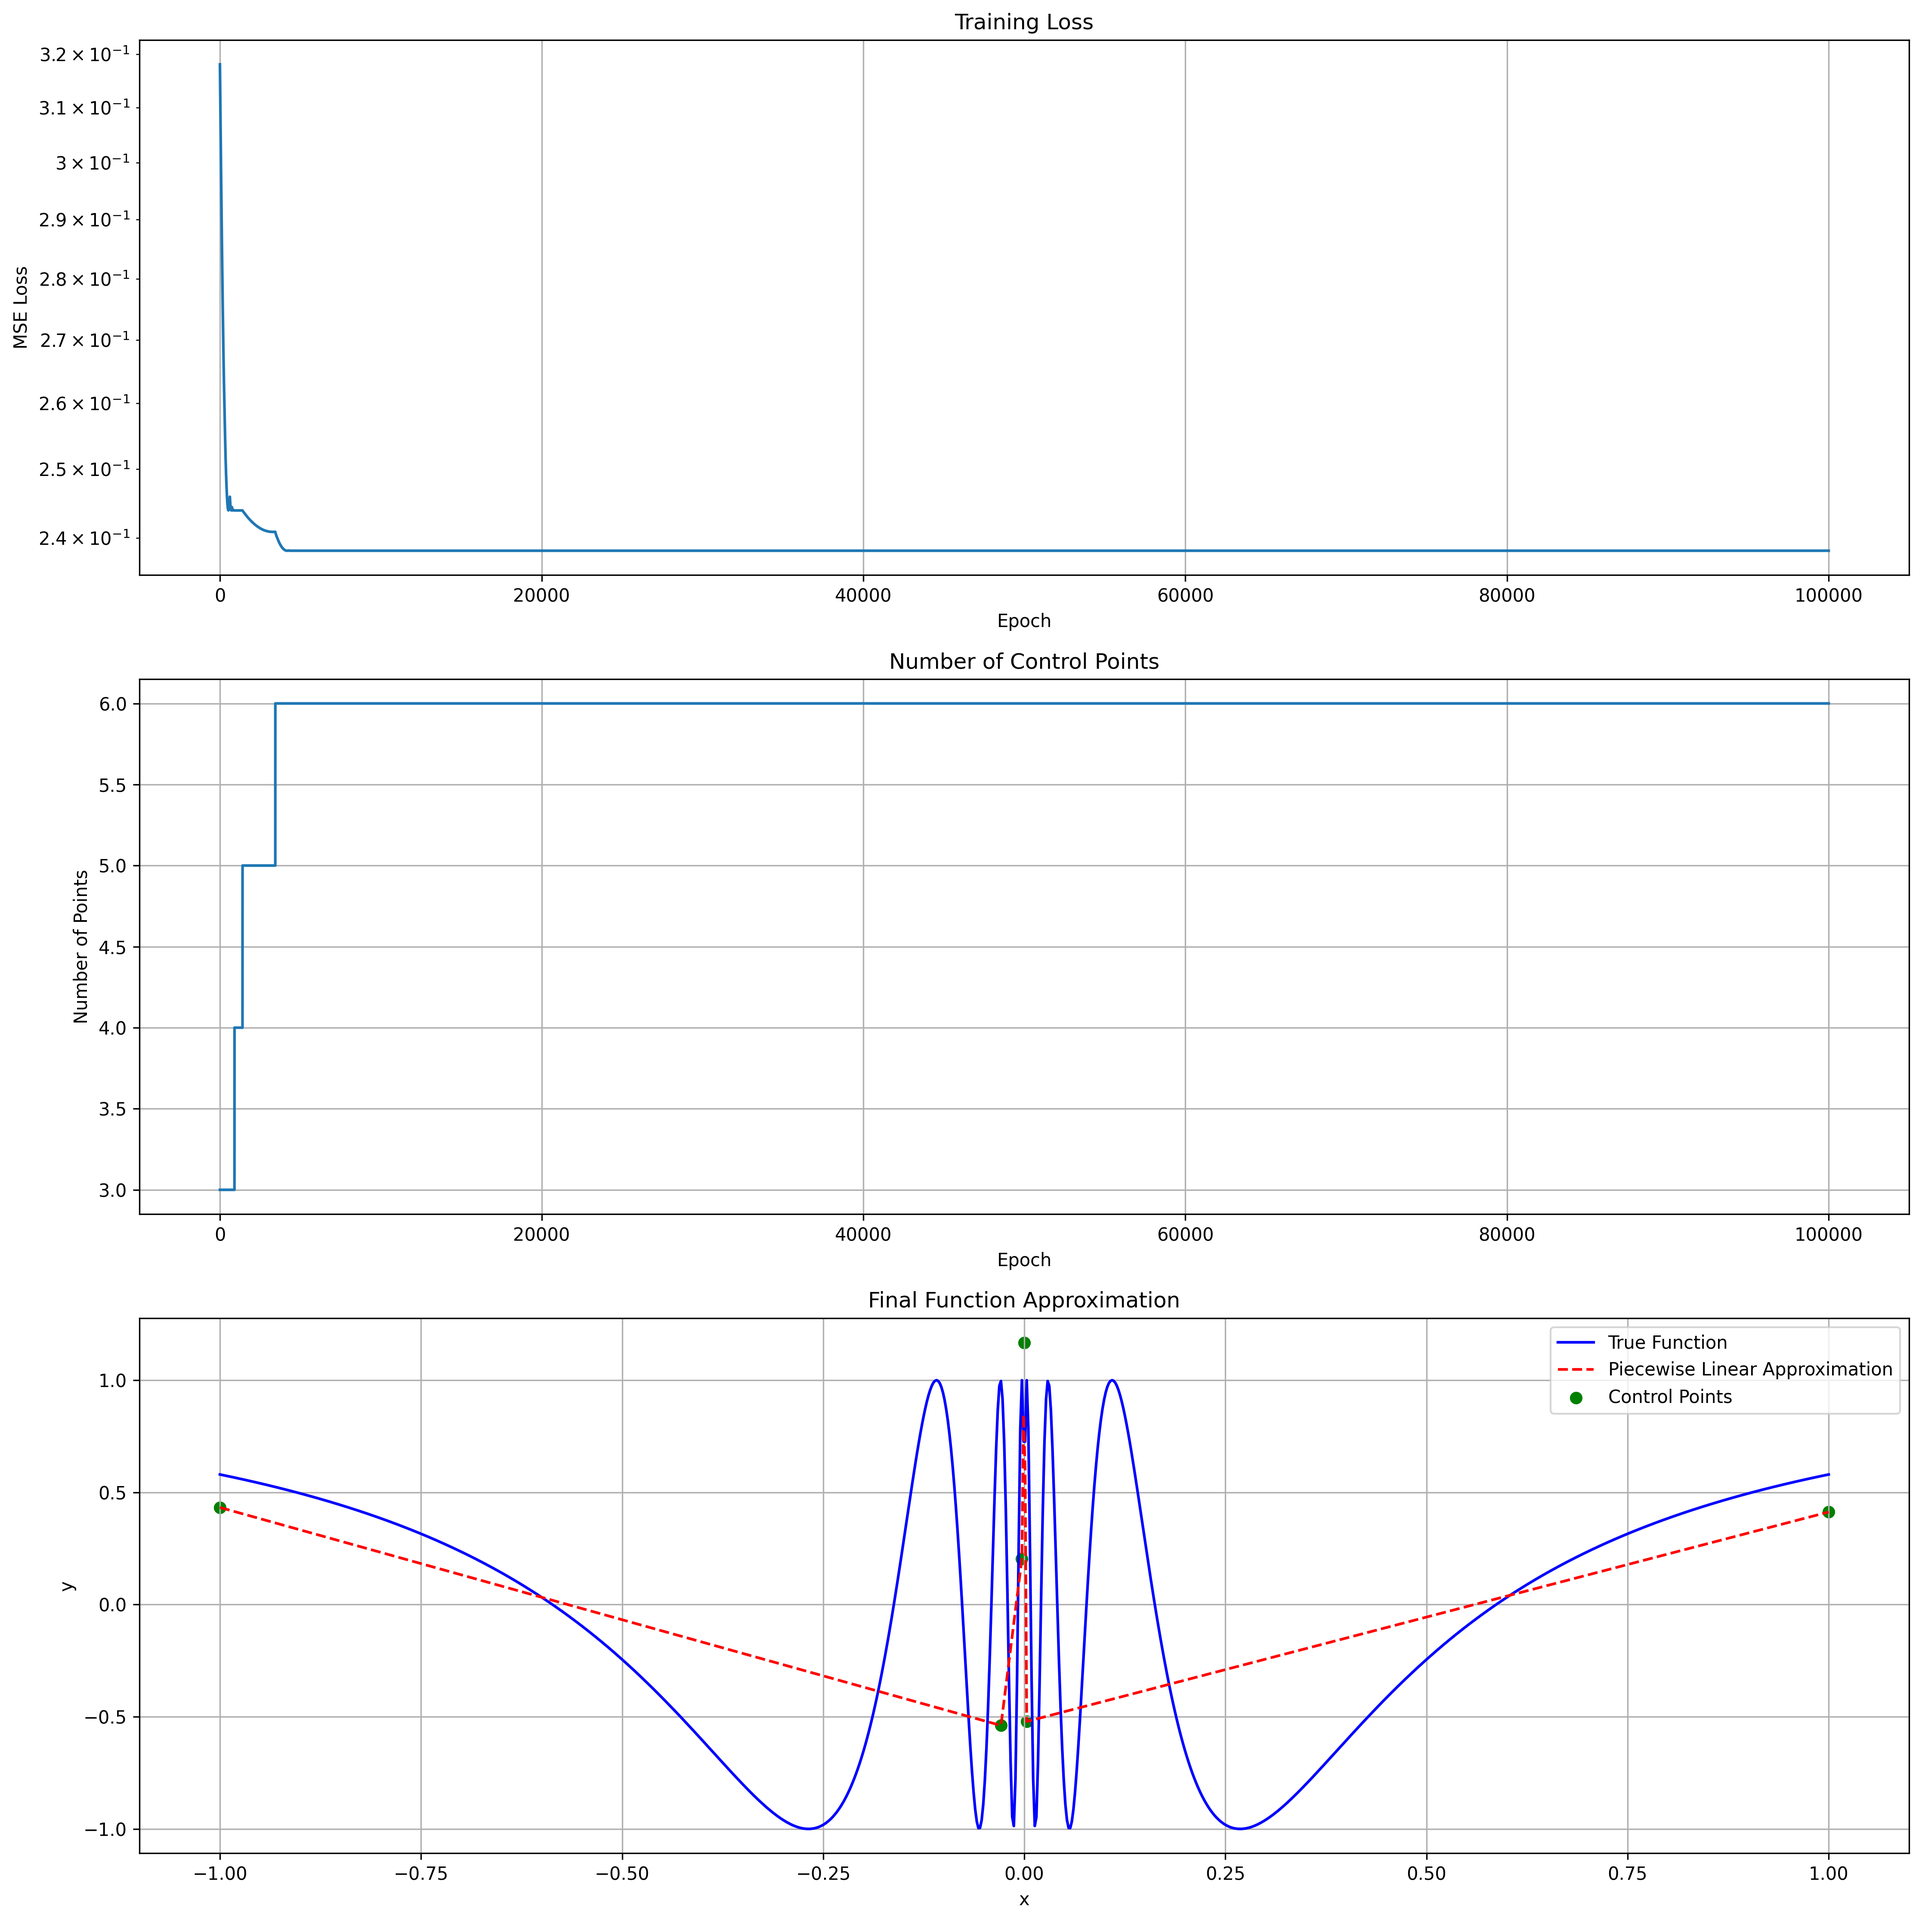
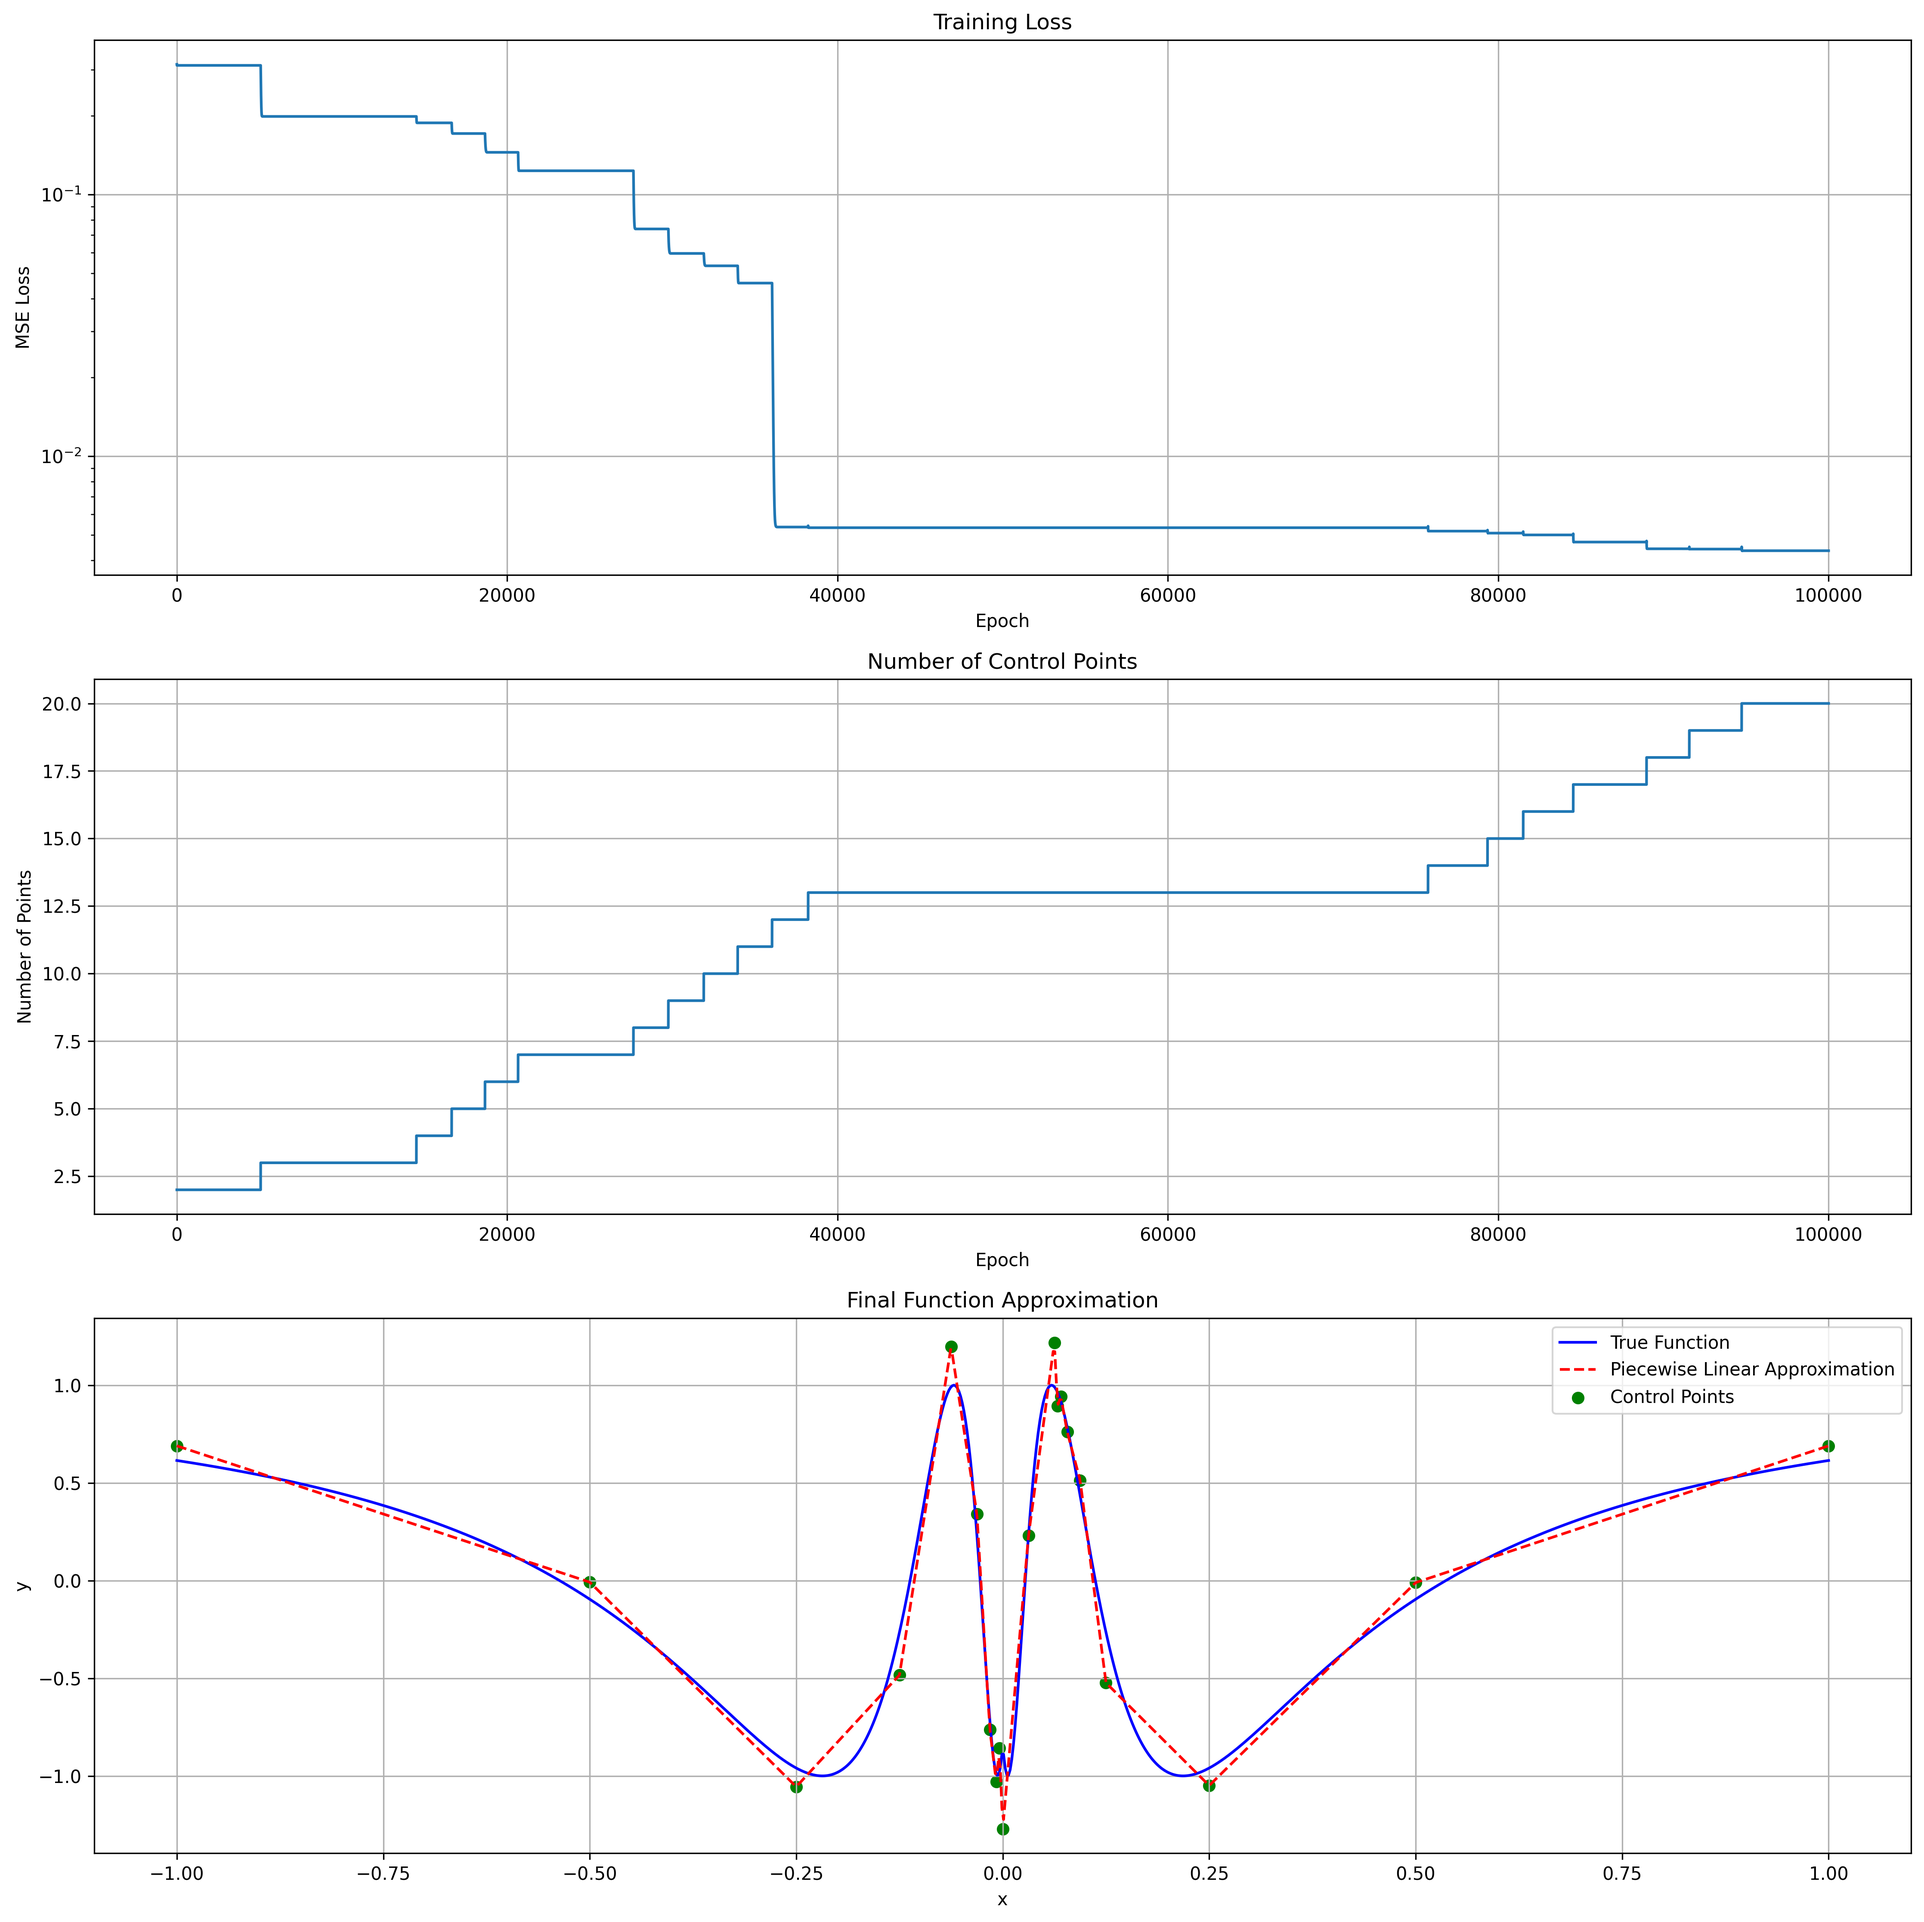
Ok, this one actually works

diff --git a/examples/sine_fitting.py b/examples/sine_fitting.py
@@ -17,8 +17,8 @@ np.random.seed(42)
 os.makedirs('examples/progress_plots', exist_ok=True)
 
 def save_progress_plot(model, x, y, epoch, loss, strategy):
-    """Save a plot showing the current state of the approximation."""
-    plt.figure(figsize=(12, 8))
+    """Save a plot showing the current state of the approximation and absolute error."""
+    fig, (ax1, ax2) = plt.subplots(2, 1, figsize=(12, 12), height_ratios=[2, 1])
     
     # Plot the results
     with torch.no_grad():
@@ -28,21 +28,36 @@ def save_progress_plot(model, x, y, epoch, loss, strategy):
     x_np = x.numpy()
     y_np = y.numpy()
     y_pred_np = y_pred.numpy()
-
-    plt.plot(x_np, y_np, 'b-', label='True Function', alpha=0.5)
-    plt.plot(x_np, y_pred_np, 'r--', label='Piecewise Linear Approximation')
+    
+    # Top subplot: Function approximation
+    ax1.plot(x_np, y_np, 'b-', label='True Function', alpha=0.5)
+    ax1.plot(x_np, y_pred_np, 'r--', label='Piecewise Linear Approximation')
 
     # Plot the control points
     positions = model.piecewise.positions.data[0, 0].numpy()
     values = model.piecewise.values.data[0, 0].numpy()
-    plt.scatter(positions, values, c='g', s=100, label='Control Points')
+    ax1.scatter(positions, values, c='g', s=100, label='Control Points')
 
-    plt.title(f'Function Approximation - Epoch {epoch}\n'
-             f'Points: {len(positions)}, Loss: {loss:.4f}, Strategy: {strategy}')
-    plt.xlabel('x')
-    plt.ylabel('y')
-    plt.legend()
-    plt.grid(True)
+    ax1.set_title(f'Function Approximation - Epoch {epoch}\n'
+                f'Points: {len(positions)}, Loss: {loss:.4f}, Strategy: {strategy}')
+    ax1.set_xlabel('x')
+    ax1.set_ylabel('y')
+    ax1.legend()
+    ax1.grid(True)
+    
+    # Bottom subplot: Absolute error
+    abs_error = np.abs(y_np - y_pred_np)
+    ax2.plot(x_np, abs_error, 'k-', label='Absolute Error')
+    ax2.scatter(positions, np.zeros_like(positions), c='g', s=100, 
+               label='Control Points', zorder=3)  # zorder to ensure points are on top
+    ax2.set_title('Absolute Error')
+    ax2.set_xlabel('x')
+    ax2.set_ylabel('|Error|')
+    ax2.legend()
+    ax2.grid(True)
+    
+    # Adjust layout to prevent overlapping
+    plt.tight_layout()
 
     plt.savefig(f'examples/progress_plots/approximation_epoch_{epoch:04d}.png', 
                 dpi=300, bbox_inches='tight')
@@ -50,7 +65,7 @@ def save_progress_plot(model, x, y, epoch, loss, strategy):
 
 # Create synthetic sine wave data
 x = torch.linspace(-1, 1, 1000).reshape(-1, 1)
-y = torch.cos(1/(torch.abs(x)+0.05))
+y = torch.cos(1/(torch.abs(x)+0.1))
 
 # Create a simple model with our non-uniform piecewise linear layer
 class SineApproximator(nn.Module):
@@ -80,17 +95,20 @@ class SineApproximator(nn.Module):
 
     def insert_points(self, x):
         return self.piecewise.insert_points(x)
+    
+    def insert_nearby_point(self,x):
+        return self.piecewise.insert_nearby_point(x)
 
 def generate_optimizer(parameters) :
     #return torch.optim.Adam(parameters,1e-3)
     #return torch.optim.SGD(parameters, lr=1e-2)
-    return Lion(parameters, lr=1e-3)
+    return torch.optim.Adam(parameters, lr=1e-2)
     
 
 # Training parameters
-initial_points = 3  # Number of points in piecewise function
+initial_points = 2  # Number of points in piecewise function
 max_points = 50    # Maximum number of points to add
-min_epochs_between_points = 500  # Minimum epochs to wait between adding points
+min_epochs_between_points = 2000  # Minimum epochs to wait between adding points
 max_epochs_between_points = 100000
 plateau_window = 200  # Window size to check for loss plateau
 plateau_threshold = 0.00001  # Relative improvement threshold to detect plateau
@@ -132,13 +150,14 @@ for epoch in range(num_epochs):
         if relative_improvement < plateau_threshold and current_loss <= best_loss or (epoch-last_point_added_epoch>=max_epochs_between_points):
             # Loss has plateaued at best value, try to add a point
             
-            error = torch.abs(output-y)
+            error = torch.pow(torch.abs(output-y),0.1)
             new_value = model.largest_error(error, x)
             print('new value', new_value)
             
             success = False
             if new_value is not None:
-                success = model.insert_points(new_value)
+                #success = model.insert_points(new_value)
+                success = model.insert_nearby_point(new_value)
             
             if success:
                 strategy = 0

diff --git a/non_uniform_piecewise_layers/adaptive_piecewise_linear.py b/non_uniform_piecewise_layers/adaptive_piecewise_linear.py
@@ -188,6 +188,64 @@ class AdaptivePiecewiseLinear(nn.Module):
             
             return True
 
+    def insert_nearby_point(self, point: torch.Tensor) -> bool:
+        """
+        Find the nearest points to the left and right of the given point and insert
+        a new point halfway between them. The point is used only to locate the insertion
+        position, not as the actual value to insert.
+
+        Args:
+            point (torch.Tensor): Reference point with shape (num_inputs,) or (batch_size, num_inputs)
+
+        Returns:
+            bool: True if a point was inserted, False otherwise
+        """
+        with torch.no_grad():
+            # Ensure point has correct shape (num_inputs,)
+            if point is None:
+                return False
+                
+            if point.dim() == 2:
+                # If we get a batch, just take the first one
+                point = point[0]
+            
+            if point.size(0) != self.num_inputs:
+                raise ValueError(f"Point must have {self.num_inputs} dimensions, got {point.size(0)}")
+
+            # For each input dimension, find the nearest left and right points
+            midpoints = []
+            for i in range(self.num_inputs):
+                positions = self.positions[i, 0]  # Use first output dimension as reference
+                
+                # Find points to the left and right of the target point
+                left_mask = positions <= point[i]
+                right_mask = positions > point[i]
+                
+                if not left_mask.any() or not right_mask.any():
+                    # If point is outside range, we can't insert a midpoint
+                    return False
+                
+                # Get nearest left and right points
+                left_idx = torch.where(left_mask)[0][-1]
+                right_idx = torch.where(right_mask)[0][0]
+                
+                # Calculate midpoint
+                left_pos = positions[left_idx]
+                right_pos = positions[right_idx]
+                midpoint = (left_pos + right_pos) / 2
+                
+                # Check if midpoint is too close to existing points
+                min_distance = 1e-6
+                distances = torch.abs(positions - midpoint)
+                if torch.any(distances < min_distance):
+                    return False
+                    
+                midpoints.append(midpoint)
+            
+            # Create tensor of midpoints and insert them
+            midpoints = torch.tensor(midpoints, device=point.device)
+            return self.insert_points(midpoints)
+
     def forward(self, x: torch.Tensor) -> torch.Tensor:
         """
         Forward pass of the layer.
